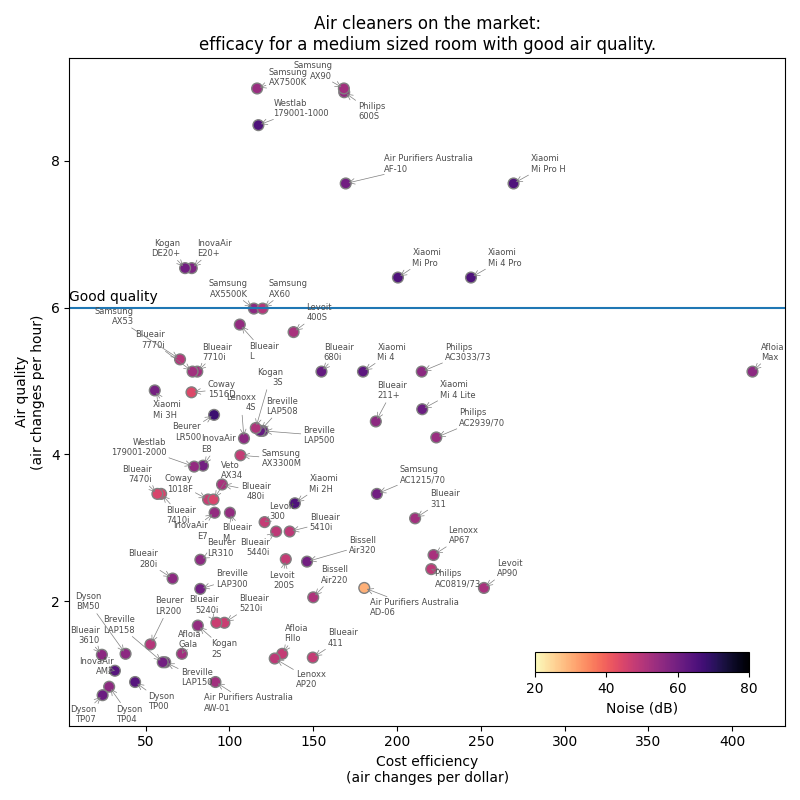
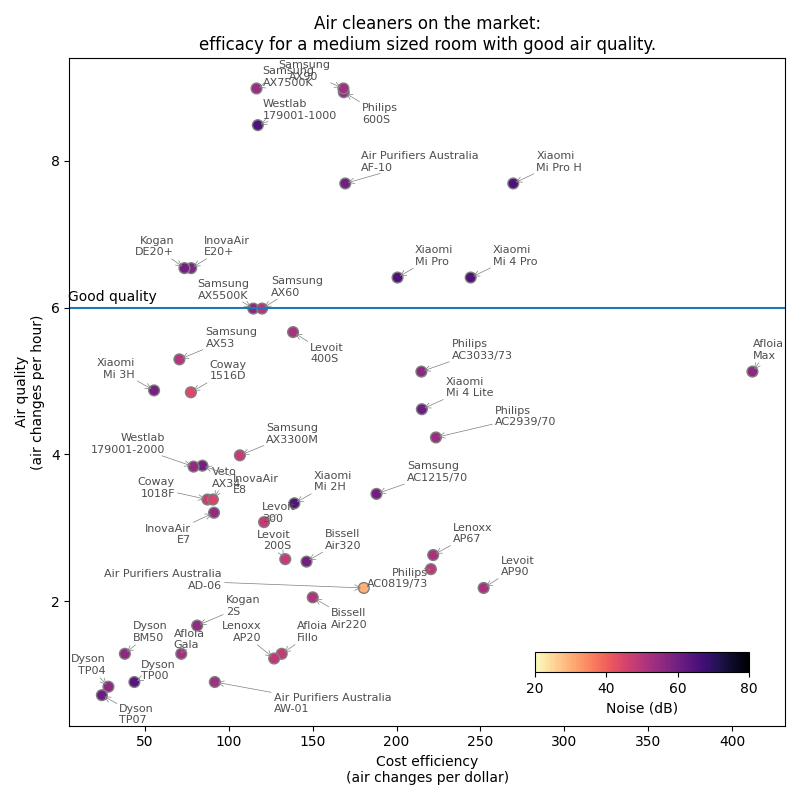
Quick push

diff --git a/aircleaning/produce.py b/aircleaning/produce.py
@@ -276,7 +276,7 @@ def synoptic(data=None, /, volume='medium', quality='good', path=productsdir):
         tuple(
             ax.text(
                 x, y, txt,
-                color="#4d4d4d", fontsize=6, fontname="DejaVu Sans",
+                color="#4d4d4d", fontsize=8, fontname="DejaVu Sans",
                 )
             for txt, x, y in zip(
                 map('\n'.join, data.index),

diff --git a/aircleaning/analyse.py b/aircleaning/analyse.py
@@ -52,6 +52,7 @@ def synoptic_analysis(data=None, /, volume='medium'):
 
     if data is None:
         data = load.get_main_data()
+    data = data.loc[~data['ionising'] & ~data['uv']]
 
     if isinstance(volume, str):
         volume = load.get_volume_data()['levels'].loc[volume]
